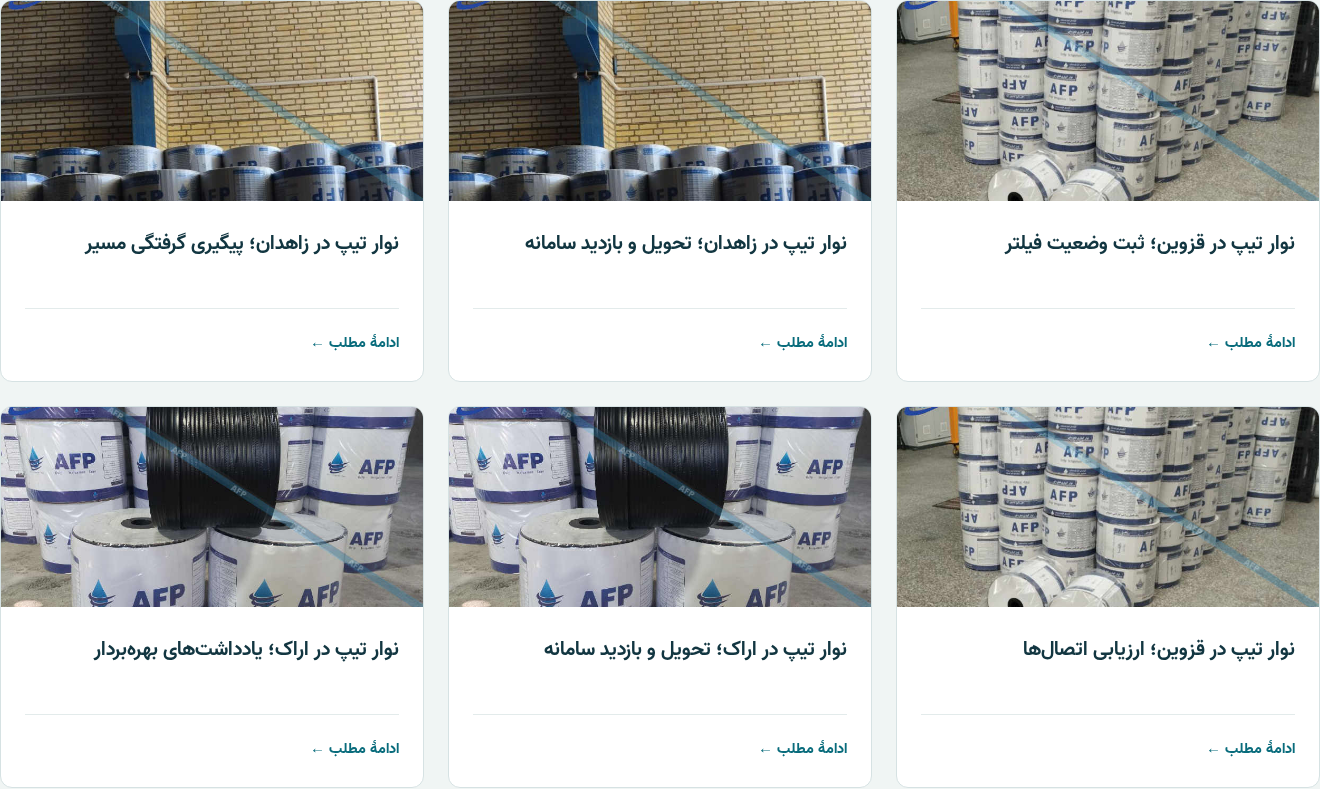
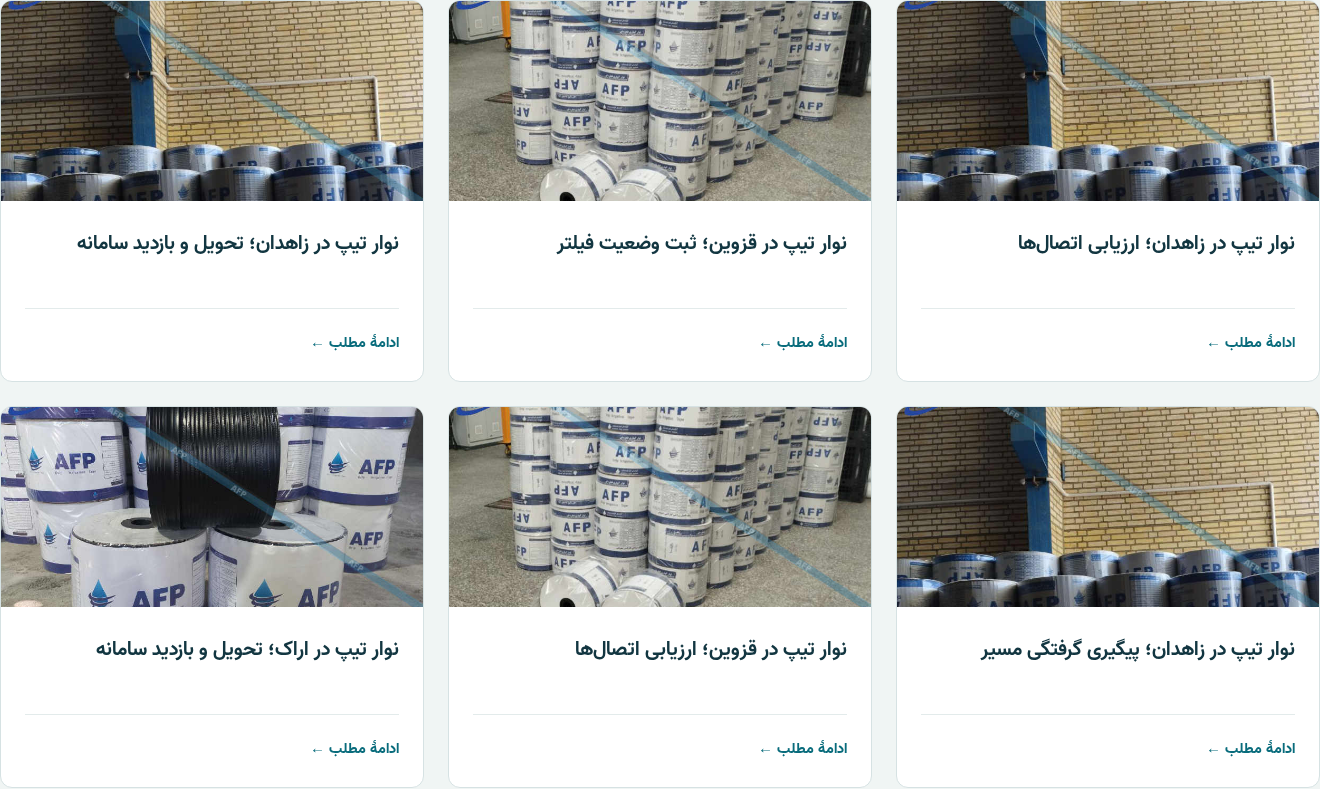
Checkpoint verified Blogsky native outcome [skip ci]

diff --git a/artifacts/blogsky-backlink-queue/home-card-images/candidate.html b/artifacts/blogsky-backlink-queue/home-card-images/candidate.html
@@ -27,12 +27,12 @@ body:has(#afp-home) .sidebar>.menu:has(>.head>a[href="/posts"]) a:focus-visible{
 @media(max-width:760px){body:has(#afp-home) .sidebar>.menu:has(>.head>a[href="/posts"])>ul{width:calc(100% - 40px)}#afp-home #guides{padding-top:40px}}
 @media(max-width:650px){body:has(#afp-home) .sidebar>.menu:has(>.head>a[href="/posts"])>ul{grid-template-columns:minmax(0,1fr)}#afp-home .afp-journal-heading{align-items:flex-start;flex-direction:column;gap:12px}}
 /*]]>*//* AFP_LIVE_CARD_IMAGES_START */
+body:has(#afp-home) .sidebar>.menu:has(>.head>a[href="/posts"])>ul>li>a[href="/1405/08/06/post-34/navar-tip-zahedan-evaluation-connections"]::before{background-image:url("https://navar-abyari.ir/wp-content/uploads/%D9%82%DB%8C%D9%85%D8%AA-%D8%AE%D8%B1%DB%8C%D8%AF-%D9%86%D9%88%D8%A7%D8%B1-%D8%A2%D8%A8%DB%8C%D8%A7%D8%B1%DB%8C-%D8%B2%D8%A7%D9%87%D8%AF%D8%A7%D9%86.jpg");background-size:cover;background-position:center}
 body:has(#afp-home) .sidebar>.menu:has(>.head>a[href="/posts"])>ul>li>a[href="/1405/08/06/post-33/navar-tip-dar-qazvin-sabt-e-vaziyat-filter"]::before{background-image:url("https://navar-abyari.ir/wp-content/uploads/%D9%86%D9%88%D8%A7%D8%B1-%D8%AA%DB%8C%D9%BE-%D9%82%D8%B2%D9%88%DB%8C%D9%86.jpg");background-size:cover;background-position:center}
 body:has(#afp-home) .sidebar>.menu:has(>.head>a[href="/posts"])>ul>li>a[href="/1405/08/06/post-32/navar-tip-545e911b5625406ba54b"]::before{background-image:url("https://navar-abyari.ir/wp-content/uploads/%D9%82%DB%8C%D9%85%D8%AA-%D8%AE%D8%B1%DB%8C%D8%AF-%D9%86%D9%88%D8%A7%D8%B1-%D8%A2%D8%A8%DB%8C%D8%A7%D8%B1%DB%8C-%D8%B2%D8%A7%D9%87%D8%AF%D8%A7%D9%86.jpg");background-size:cover;background-position:center}
 body:has(#afp-home) .sidebar>.menu:has(>.head>a[href="/posts"])>ul>li>a[href="/1405/08/06/post-31/navar-tip-zahedan-gereftegi-masir"]::before{background-image:url("https://navar-abyari.ir/wp-content/uploads/%D9%82%DB%8C%D9%85%D8%AA-%D8%AE%D8%B1%DB%8C%D8%AF-%D9%86%D9%88%D8%A7%D8%B1-%D8%A2%D8%A8%DB%8C%D8%A7%D8%B1%DB%8C-%D8%B2%D8%A7%D9%87%D8%AF%D8%A7%D9%86.jpg");background-size:cover;background-position:center}
 body:has(#afp-home) .sidebar>.menu:has(>.head>a[href="/posts"])>ul>li>a[href="/1405/08/06/post-30/navar-tip-1b3c011bf858b81584b7"]::before{background-image:url("https://navar-abyari.ir/wp-content/uploads/%D9%86%D9%88%D8%A7%D8%B1-%D8%AA%DB%8C%D9%BE-%D9%82%D8%B2%D9%88%DB%8C%D9%86.jpg");background-size:cover;background-position:center}
 body:has(#afp-home) .sidebar>.menu:has(>.head>a[href="/posts"])>ul>li>a[href="/1405/08/06/post-29/narvar-tip-arak-delivery-inspection"]::before{background-image:url("https://navar-abyari.ir/wp-content/uploads/%D9%86%D9%88%D8%A7%D8%B1-%D8%A2%D8%A8%DB%8C%D8%A7%D8%B1%DB%8C.jpg");background-size:cover;background-position:center}
-body:has(#afp-home) .sidebar>.menu:has(>.head>a[href="/posts"])>ul>li>a[href="/1405/08/06/post-28/navar-tip-arag-ye-dasht-haye-bahrebardar"]::before{background-image:url("https://navar-abyari.ir/wp-content/uploads/%D9%86%D9%88%D8%A7%D8%B1-%D8%A2%D8%A8%DB%8C%D8%A7%D8%B1%DB%8C.jpg");background-size:cover;background-position:center}
 /* AFP_LIVE_CARD_IMAGES_END */</style><div id="afp-home" lang="fa" dir="rtl">
 <div class="top"><div class="wrap"><span class="top-note">راهنمای کاربردی AFP · آبیاری و انتقال آب</span><a href="tel:+989134922013">مشاورهٔ انتخاب تجهیزات: ۰۹۱۳۴۹۲۲۰۱۳</a></div></div>
 <header><div class="wrap brandbar"><a class="brand" href="/"><img src="https://navar-abyari.ir/wp-content/uploads/نوار-تیپ-afp-drip-tape.png" alt="لوگوی AFP" width="52" height="52" /><span><strong>آبگستر فرا پارسیان</strong><small>انتخاب آگاهانه، آبیاری بهتر</small></span></a><a class="btn alt" href="https://navar-abyari.ir/shop/">فروشگاه AFP ←</a></div><div class="navline"><nav class="wrap" aria-label="فهرست اصلی"><a href="#products">تجهیزات آبیاری</a><a href="#guides">راهنماها و یادداشتها</a><a href="#faq">پرسشهای متداول</a><a href="#contact">تماس و مشاوره</a></nav></div></header>

diff --git a/templates/blogsky/afp-home.html b/templates/blogsky/afp-home.html
@@ -27,12 +27,12 @@ body:has(#afp-home) .sidebar>.menu:has(>.head>a[href="/posts"]) a:focus-visible{
 @media(max-width:760px){body:has(#afp-home) .sidebar>.menu:has(>.head>a[href="/posts"])>ul{width:calc(100% - 40px)}#afp-home #guides{padding-top:40px}}
 @media(max-width:650px){body:has(#afp-home) .sidebar>.menu:has(>.head>a[href="/posts"])>ul{grid-template-columns:minmax(0,1fr)}#afp-home .afp-journal-heading{align-items:flex-start;flex-direction:column;gap:12px}}
 /* AFP_LIVE_CARD_IMAGES_START */
+body:has(#afp-home) .sidebar>.menu:has(>.head>a[href="/posts"])>ul>li>a[href="/1405/08/06/post-34/navar-tip-zahedan-evaluation-connections"]::before{background-image:url("https://navar-abyari.ir/wp-content/uploads/%D9%82%DB%8C%D9%85%D8%AA-%D8%AE%D8%B1%DB%8C%D8%AF-%D9%86%D9%88%D8%A7%D8%B1-%D8%A2%D8%A8%DB%8C%D8%A7%D8%B1%DB%8C-%D8%B2%D8%A7%D9%87%D8%AF%D8%A7%D9%86.jpg");background-size:cover;background-position:center}
 body:has(#afp-home) .sidebar>.menu:has(>.head>a[href="/posts"])>ul>li>a[href="/1405/08/06/post-33/navar-tip-dar-qazvin-sabt-e-vaziyat-filter"]::before{background-image:url("https://navar-abyari.ir/wp-content/uploads/%D9%86%D9%88%D8%A7%D8%B1-%D8%AA%DB%8C%D9%BE-%D9%82%D8%B2%D9%88%DB%8C%D9%86.jpg");background-size:cover;background-position:center}
 body:has(#afp-home) .sidebar>.menu:has(>.head>a[href="/posts"])>ul>li>a[href="/1405/08/06/post-32/navar-tip-545e911b5625406ba54b"]::before{background-image:url("https://navar-abyari.ir/wp-content/uploads/%D9%82%DB%8C%D9%85%D8%AA-%D8%AE%D8%B1%DB%8C%D8%AF-%D9%86%D9%88%D8%A7%D8%B1-%D8%A2%D8%A8%DB%8C%D8%A7%D8%B1%DB%8C-%D8%B2%D8%A7%D9%87%D8%AF%D8%A7%D9%86.jpg");background-size:cover;background-position:center}
 body:has(#afp-home) .sidebar>.menu:has(>.head>a[href="/posts"])>ul>li>a[href="/1405/08/06/post-31/navar-tip-zahedan-gereftegi-masir"]::before{background-image:url("https://navar-abyari.ir/wp-content/uploads/%D9%82%DB%8C%D9%85%D8%AA-%D8%AE%D8%B1%DB%8C%D8%AF-%D9%86%D9%88%D8%A7%D8%B1-%D8%A2%D8%A8%DB%8C%D8%A7%D8%B1%DB%8C-%D8%B2%D8%A7%D9%87%D8%AF%D8%A7%D9%86.jpg");background-size:cover;background-position:center}
 body:has(#afp-home) .sidebar>.menu:has(>.head>a[href="/posts"])>ul>li>a[href="/1405/08/06/post-30/navar-tip-1b3c011bf858b81584b7"]::before{background-image:url("https://navar-abyari.ir/wp-content/uploads/%D9%86%D9%88%D8%A7%D8%B1-%D8%AA%DB%8C%D9%BE-%D9%82%D8%B2%D9%88%DB%8C%D9%86.jpg");background-size:cover;background-position:center}
 body:has(#afp-home) .sidebar>.menu:has(>.head>a[href="/posts"])>ul>li>a[href="/1405/08/06/post-29/narvar-tip-arak-delivery-inspection"]::before{background-image:url("https://navar-abyari.ir/wp-content/uploads/%D9%86%D9%88%D8%A7%D8%B1-%D8%A2%D8%A8%DB%8C%D8%A7%D8%B1%DB%8C.jpg");background-size:cover;background-position:center}
-body:has(#afp-home) .sidebar>.menu:has(>.head>a[href="/posts"])>ul>li>a[href="/1405/08/06/post-28/navar-tip-arag-ye-dasht-haye-bahrebardar"]::before{background-image:url("https://navar-abyari.ir/wp-content/uploads/%D9%86%D9%88%D8%A7%D8%B1-%D8%A2%D8%A8%DB%8C%D8%A7%D8%B1%DB%8C.jpg");background-size:cover;background-position:center}
 /* AFP_LIVE_CARD_IMAGES_END */</style><div id="afp-home" lang="fa" dir="rtl">
 <div class="top"><div class="wrap"><span class="top-note">راهنمای کاربردی AFP · آبیاری و انتقال آب</span><a href="tel:+989134922013">مشاورهٔ انتخاب تجهیزات: ۰۹۱۳۴۹۲۲۰۱۳</a></div></div>
 <header><div class="wrap brandbar"><a class="brand" href="/"><img src="https://navar-abyari.ir/wp-content/uploads/نوار-تیپ-afp-drip-tape.png" alt="لوگوی AFP" width="52" height="52"><span><strong>آبگستر فرا پارسیان</strong><small>انتخاب آگاهانه، آبیاری بهتر</small></span></a><a class="btn alt" href="https://navar-abyari.ir/shop/">فروشگاه AFP ←</a></div><div class="navline"><nav class="wrap" aria-label="فهرست اصلی"><a href="#products">تجهیزات آبیاری</a><a href="#guides">راهنماها و یادداشتها</a><a href="#faq">پرسشهای متداول</a><a href="#contact">تماس و مشاوره</a></nav></div></header>

diff --git a/artifacts/blogsky-backlink-queue/home-card-images/before.html b/artifacts/blogsky-backlink-queue/home-card-images/before.html
@@ -27,12 +27,12 @@ body:has(#afp-home) .sidebar>.menu:has(>.head>a[href="/posts"]) a:focus-visible{
 @media(max-width:760px){body:has(#afp-home) .sidebar>.menu:has(>.head>a[href="/posts"])>ul{width:calc(100% - 40px)}#afp-home #guides{padding-top:40px}}
 @media(max-width:650px){body:has(#afp-home) .sidebar>.menu:has(>.head>a[href="/posts"])>ul{grid-template-columns:minmax(0,1fr)}#afp-home .afp-journal-heading{align-items:flex-start;flex-direction:column;gap:12px}}
 /*]]>*//* AFP_LIVE_CARD_IMAGES_START */
+body:has(#afp-home) .sidebar>.menu:has(>.head>a[href="/posts"])>ul>li>a[href="/1405/08/06/post-33/navar-tip-dar-qazvin-sabt-e-vaziyat-filter"]::before{background-image:url("https://navar-abyari.ir/wp-content/uploads/%D9%86%D9%88%D8%A7%D8%B1-%D8%AA%DB%8C%D9%BE-%D9%82%D8%B2%D9%88%DB%8C%D9%86.jpg");background-size:cover;background-position:center}
 body:has(#afp-home) .sidebar>.menu:has(>.head>a[href="/posts"])>ul>li>a[href="/1405/08/06/post-32/navar-tip-545e911b5625406ba54b"]::before{background-image:url("https://navar-abyari.ir/wp-content/uploads/%D9%82%DB%8C%D9%85%D8%AA-%D8%AE%D8%B1%DB%8C%D8%AF-%D9%86%D9%88%D8%A7%D8%B1-%D8%A2%D8%A8%DB%8C%D8%A7%D8%B1%DB%8C-%D8%B2%D8%A7%D9%87%D8%AF%D8%A7%D9%86.jpg");background-size:cover;background-position:center}
 body:has(#afp-home) .sidebar>.menu:has(>.head>a[href="/posts"])>ul>li>a[href="/1405/08/06/post-31/navar-tip-zahedan-gereftegi-masir"]::before{background-image:url("https://navar-abyari.ir/wp-content/uploads/%D9%82%DB%8C%D9%85%D8%AA-%D8%AE%D8%B1%DB%8C%D8%AF-%D9%86%D9%88%D8%A7%D8%B1-%D8%A2%D8%A8%DB%8C%D8%A7%D8%B1%DB%8C-%D8%B2%D8%A7%D9%87%D8%AF%D8%A7%D9%86.jpg");background-size:cover;background-position:center}
 body:has(#afp-home) .sidebar>.menu:has(>.head>a[href="/posts"])>ul>li>a[href="/1405/08/06/post-30/navar-tip-1b3c011bf858b81584b7"]::before{background-image:url("https://navar-abyari.ir/wp-content/uploads/%D9%86%D9%88%D8%A7%D8%B1-%D8%AA%DB%8C%D9%BE-%D9%82%D8%B2%D9%88%DB%8C%D9%86.jpg");background-size:cover;background-position:center}
 body:has(#afp-home) .sidebar>.menu:has(>.head>a[href="/posts"])>ul>li>a[href="/1405/08/06/post-29/narvar-tip-arak-delivery-inspection"]::before{background-image:url("https://navar-abyari.ir/wp-content/uploads/%D9%86%D9%88%D8%A7%D8%B1-%D8%A2%D8%A8%DB%8C%D8%A7%D8%B1%DB%8C.jpg");background-size:cover;background-position:center}
 body:has(#afp-home) .sidebar>.menu:has(>.head>a[href="/posts"])>ul>li>a[href="/1405/08/06/post-28/navar-tip-arag-ye-dasht-haye-bahrebardar"]::before{background-image:url("https://navar-abyari.ir/wp-content/uploads/%D9%86%D9%88%D8%A7%D8%B1-%D8%A2%D8%A8%DB%8C%D8%A7%D8%B1%DB%8C.jpg");background-size:cover;background-position:center}
-body:has(#afp-home) .sidebar>.menu:has(>.head>a[href="/posts"])>ul>li>a[href="/1405/08/06/post-27/nvar-tip-dar-arag-erzeabi-ettesal-ha"]::before{background-image:url("https://navar-abyari.ir/wp-content/uploads/%D9%86%D9%88%D8%A7%D8%B1-%D8%A2%D8%A8%DB%8C%D8%A7%D8%B1%DB%8C.jpg");background-size:cover;background-position:center}
 /* AFP_LIVE_CARD_IMAGES_END */</style><div id="afp-home" lang="fa" dir="rtl">
 <div class="top"><div class="wrap"><span class="top-note">راهنمای کاربردی AFP · آبیاری و انتقال آب</span><a href="tel:+989134922013">مشاورهٔ انتخاب تجهیزات: ۰۹۱۳۴۹۲۲۰۱۳</a></div></div>
 <header><div class="wrap brandbar"><a class="brand" href="/"><img src="https://navar-abyari.ir/wp-content/uploads/نوار-تیپ-afp-drip-tape.png" alt="لوگوی AFP" width="52" height="52" /><span><strong>آبگستر فرا پارسیان</strong><small>انتخاب آگاهانه، آبیاری بهتر</small></span></a><a class="btn alt" href="https://navar-abyari.ir/shop/">فروشگاه AFP ←</a></div><div class="navline"><nav class="wrap" aria-label="فهرست اصلی"><a href="#products">تجهیزات آبیاری</a><a href="#guides">راهنماها و یادداشتها</a><a href="#faq">پرسشهای متداول</a><a href="#contact">تماس و مشاوره</a></nav></div></header>
